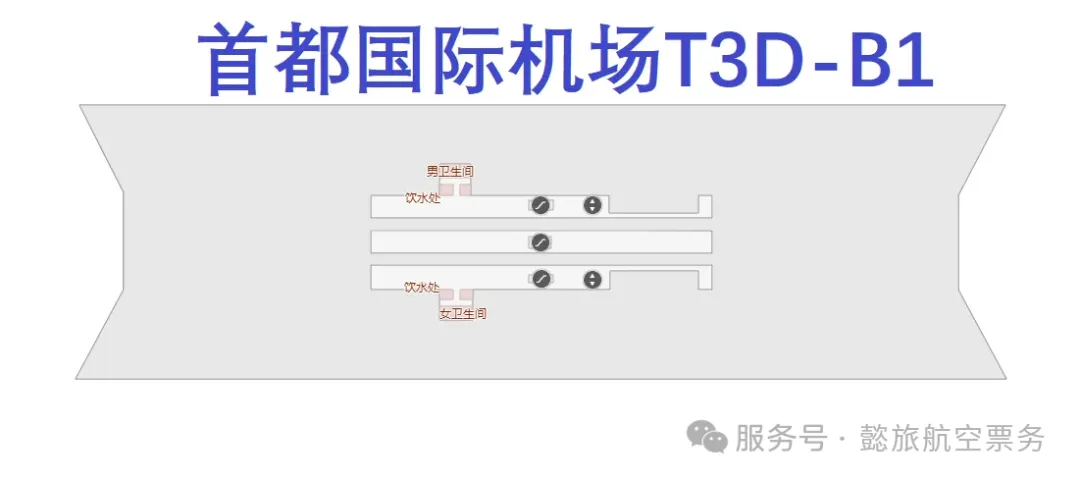
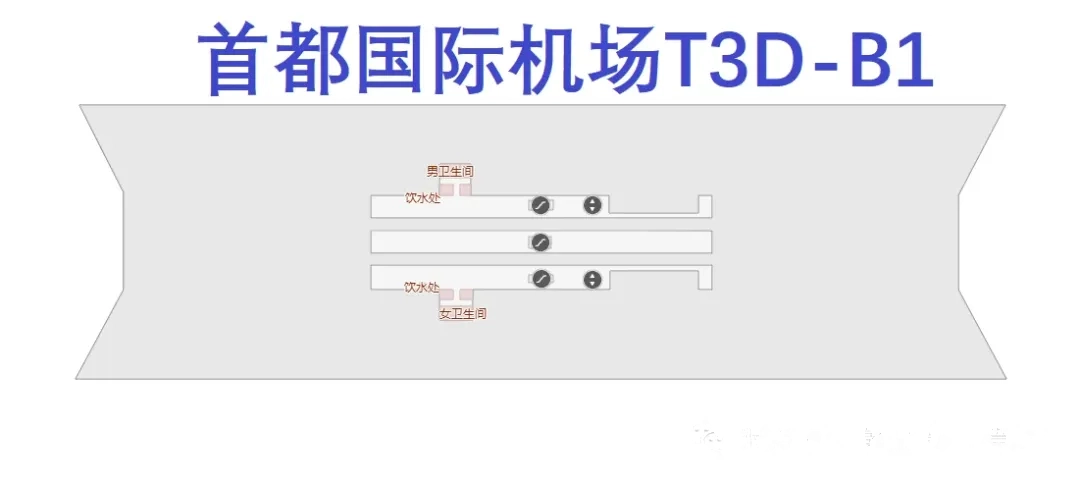
删除图片水印

Changed region(s): [[0.7944, 0.8732, 0.9778, 0.9356], [0.6111, 0.8732, 0.7639, 0.9356]]

diff --git a/README.md b/README.md
@@ -95,7 +95,7 @@ npm run build && npm start
 | `node scripts/check-search.mjs [词...]` | 检查搜索相关性排序与通配符转义 |
 | `node scripts/generate-airport-guides.mjs` | 为数据库里有、但还没有指南的机场写**数据驱动的起步稿**（`content/{zh,en}/airports/<IATA>.md` 成对）：内容只来自仓库数据（代码、位置、规模、坐标、OpenFlights 航线集、最近机场），航站楼 / 交通等未整理的信息明确标注「待补充」而不编造。**跳过精编 60 座的手写指南**（含孤儿 MEL/SZX/TPE），已存在的文件一律不覆盖；`--codes AAL,AAR` 限量、`--dry-run` 预演。跑完接 `node scripts/build-hant.mjs` 派生 tw。首页「机场指南」区块只展示客流最大的 12 座（`guidedTiles`），角标数字仍是全量 |
 | `node scripts/calibrate-hero-map.cjs`（**脚本不在仓库里**） | 重新标定首页 hero 背景图（`public/world-airport-map.jpg`）的投影常量：自相关测出地图的横向平铺周期，再用全部机场坐标拟合相位与纬度映射，输出 `components/HeroRoutes.tsx` 顶部要填的四个数字；换背景图后跑一次即可 |
-| `node scripts/strip-blog-watermark.mjs [图片目录]` | 去掉博客插图上「服务号 · 懿旅航空票务」的水印（上海浦东那批 16 张）。水印是一层约 30.7% 不透明度的黑，逐像素反解 `background = (observed − α) / (1 − α)` 就能把压在字下的地图标签一起还原，不涂抹、不模糊；每张图的缩放/偏移先按「只看白底上被覆盖像素」的能量指标拟合（同批次的图实测精确到 0）。`--ref` 换参考图、`--out` 输出到别处、`--crop-bottom N` 处理另一批浅色水印压在照片上的素材（`0.png` 用的就是裁剪）。**就地写回**，再次运行会因「水印已不在」而跳过；PNG 必须 `palette: false`，否则 sharp 会静默走调色板量化 |
+| `node scripts/strip-blog-watermark.mjs [图片目录]` | 去掉博客插图上「服务号 · 懿旅航空票务」的水印（上海浦东 16 张、北京首都 17 张）。水印是一层约 30.7% 不透明度的黑：逐像素反解 `background = (observed − α) / (1 − α)` 能把压在字下的地图标签一并还原，不涂抹、不模糊。**位置**（缩放/偏移）按「只看背景是白的那些被覆盖像素」的能量指标拟合（浦东有 5 张与参考图同批次，实测精确到 0）；**每像素的 α 则从这张图自己量**——水印跟着图一起缩放，各图缩放比不同（北京实测 0.972~1.003），拿参考图的字形硬套会过度提亮、留下一圈更显眼的亮字。残留用「覆盖区外邻居的中位数」当局部背景抹平（不能用闭运算/局部最亮值：浅灰背景挨着白底时会把白串过去）。参数：`--ref` 换参考图、`--out` 输出到别处、`--crop-bottom N` 裁掉压在照片上、没法用白底拟合的那张（两个目录的 `0.*`）。**就地写回**，按水印是否还在自动跳过重复运行，PNG 必须 `palette: false`（否则 sharp 静默走调色板量化）且按原扩展名写回（写成 PNG 却留 `.webp` 会被 `check-blog.mjs` 抓出来）。注意 `--crop-bottom` 分支**不做幂等保护**，同一条命令重跑会再裁一次——只对未处理过的原图运行。浦东那批已提交的图是用更早一版（参考图 α + 闭运算抹平）跑的，现行版本对北京这种有缩放差的素材才够干净 |
 
 `scripts/seed.mjs` 是数据入口（一次性迁移留下的 `scripts/legacy-data.json` 见文末）。
 
